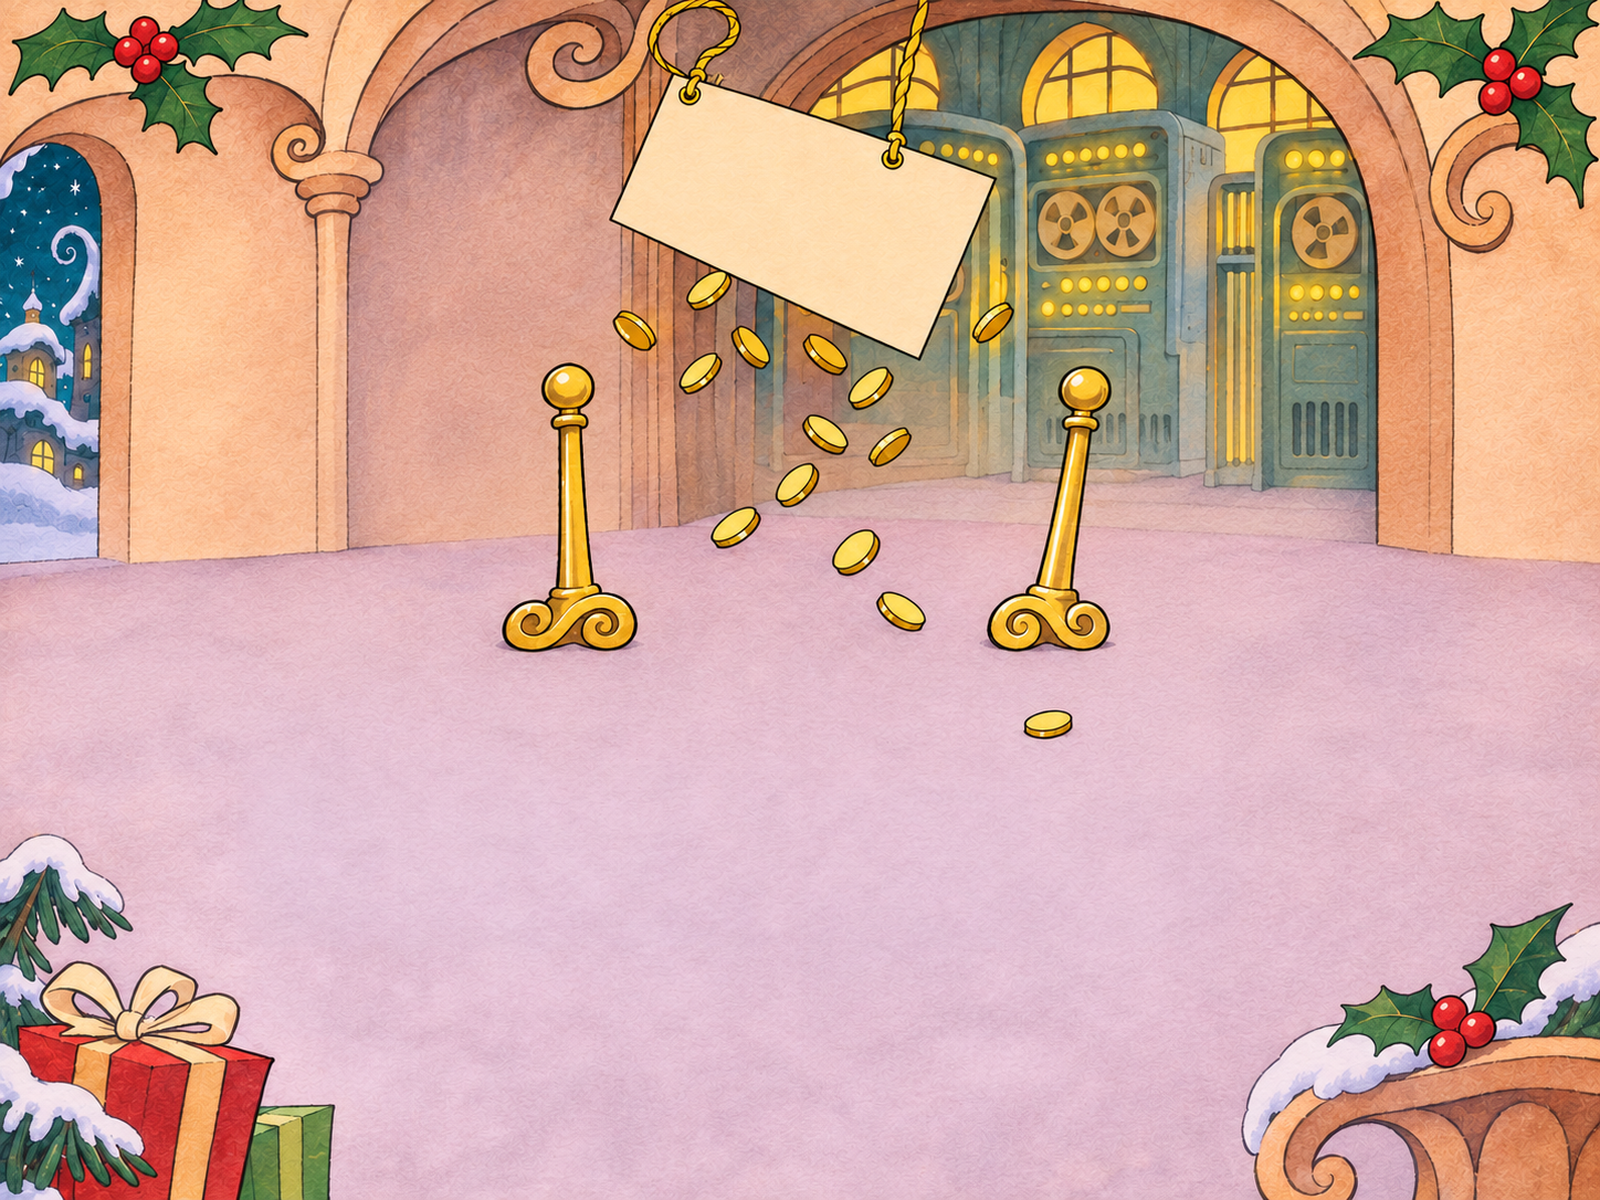
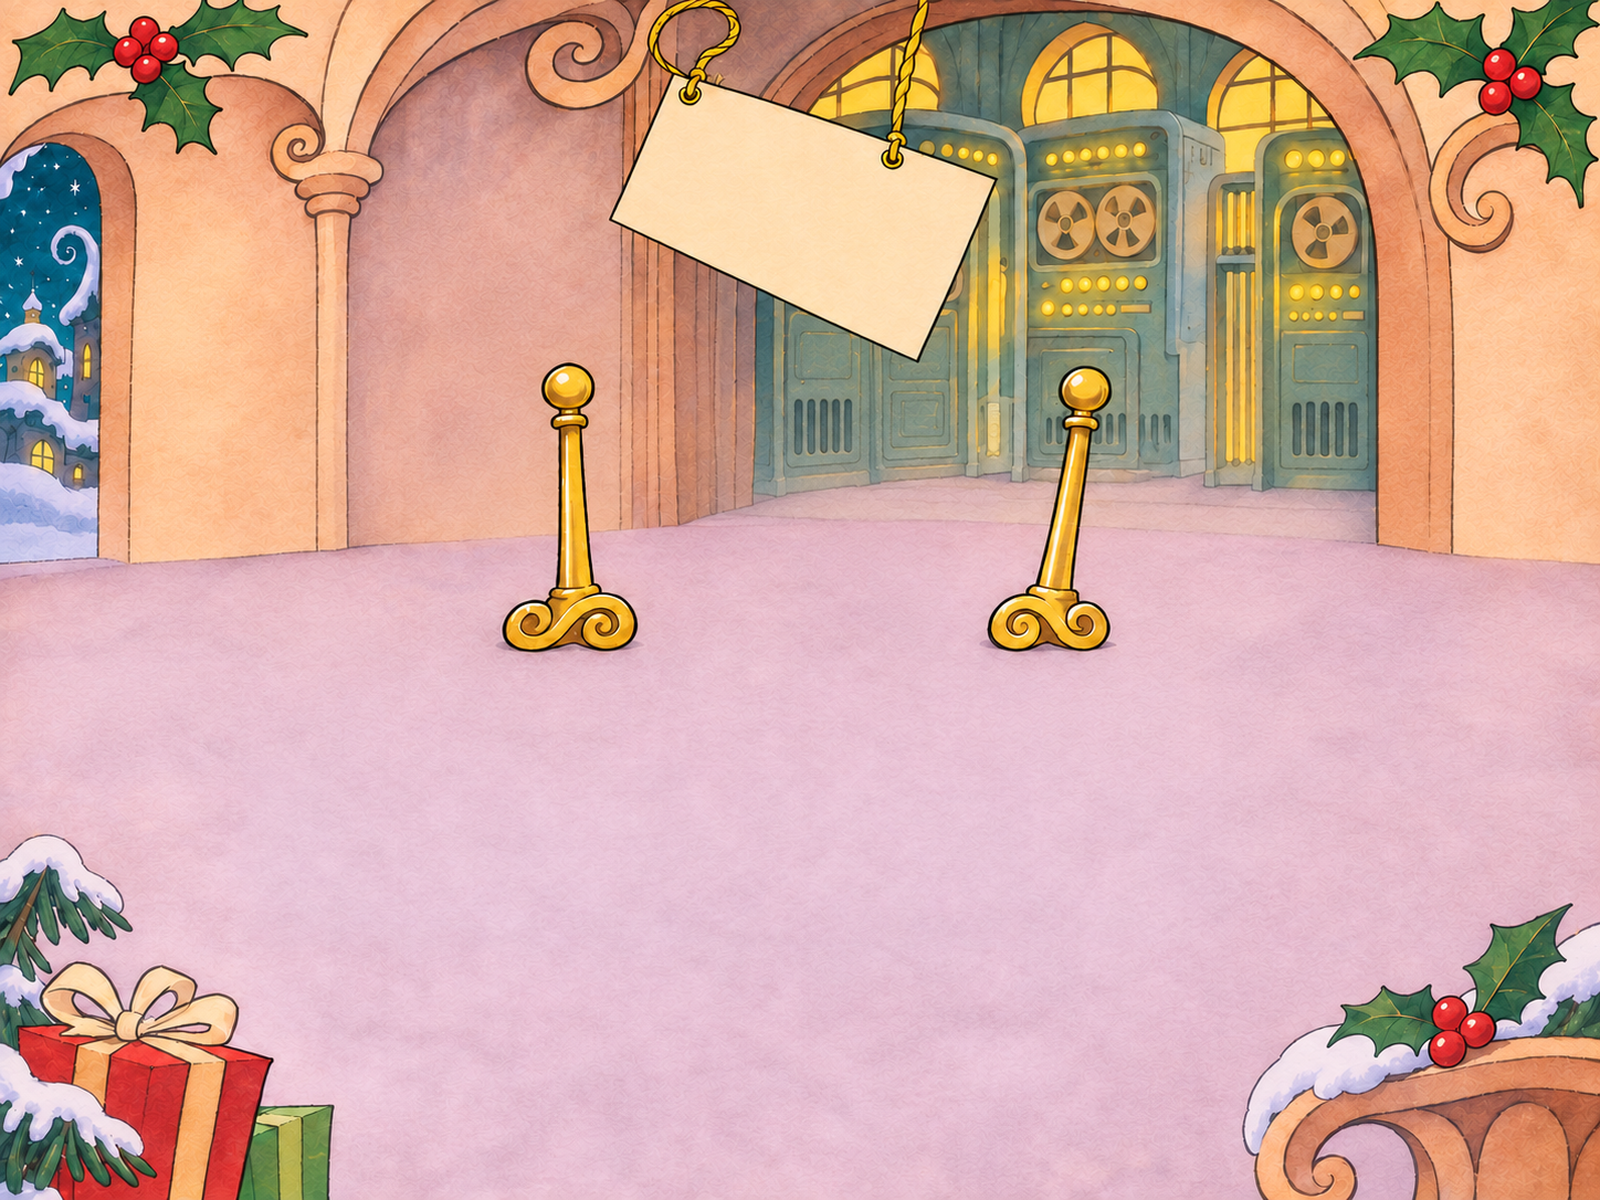
fix: 3:12 background without the painted coins; 4:10 laugh on a clean plate behind the card (no double image)
Claude-Session: https://claude.ai/code/session_01J6uhv5fZTdhjSFtQW7A9Z2

diff --git a/src/shots/faces.ts b/src/shots/faces.ts
@@ -32,9 +32,10 @@ export const shot09: Choreo = (_t, frame) => {
 };
 
 export const shot64: Choreo = (_t, frame) => {
-  const t = twos(frame), scrooge = lyrics[52].words.find(w => w.w === 'Scrooge!')!.s, t0 = scrooge + 0.35;
-  if (t < t0) return [];
-  const k = Math.floor((t - t0) / 0.26), open = k % 2 === 0, L = IDX['64/face-laugh'];
+  // on a clean plate: Ram's face (smirk, then laughing after "Scrooge!"), then the card and his hand IN FRONT of him
+  const t = twos(frame), scrooge = lyrics[52].words.find(w => w.w === 'Scrooge!')!.s, t0 = scrooge + 0.35, L = IDX['64/face-laugh'];
+  if (t < t0) return [{layer: '64/face'}, {layer: '64/card'}];
+  const k = Math.floor((t - t0) / 0.26), open = k % 2 === 0;
   return [{layer: open ? '64/face-laugh' : '64/face', dy: open ? -10 : 0, rot: open ? -2 : 0, pivot: [L.x + L.w * 0.5, L.y + L.h]},
-    ...has(t, t0, [1020, 480], [0.7, -0.6], 130, 0.26)];   // in the open space right of his face, above the sign   // from the mouth, drifting up and right
+    {layer: '64/card'}, ...has(t, t0, [1020, 480], [0.7, -0.6], 130, 0.26)];
 };
